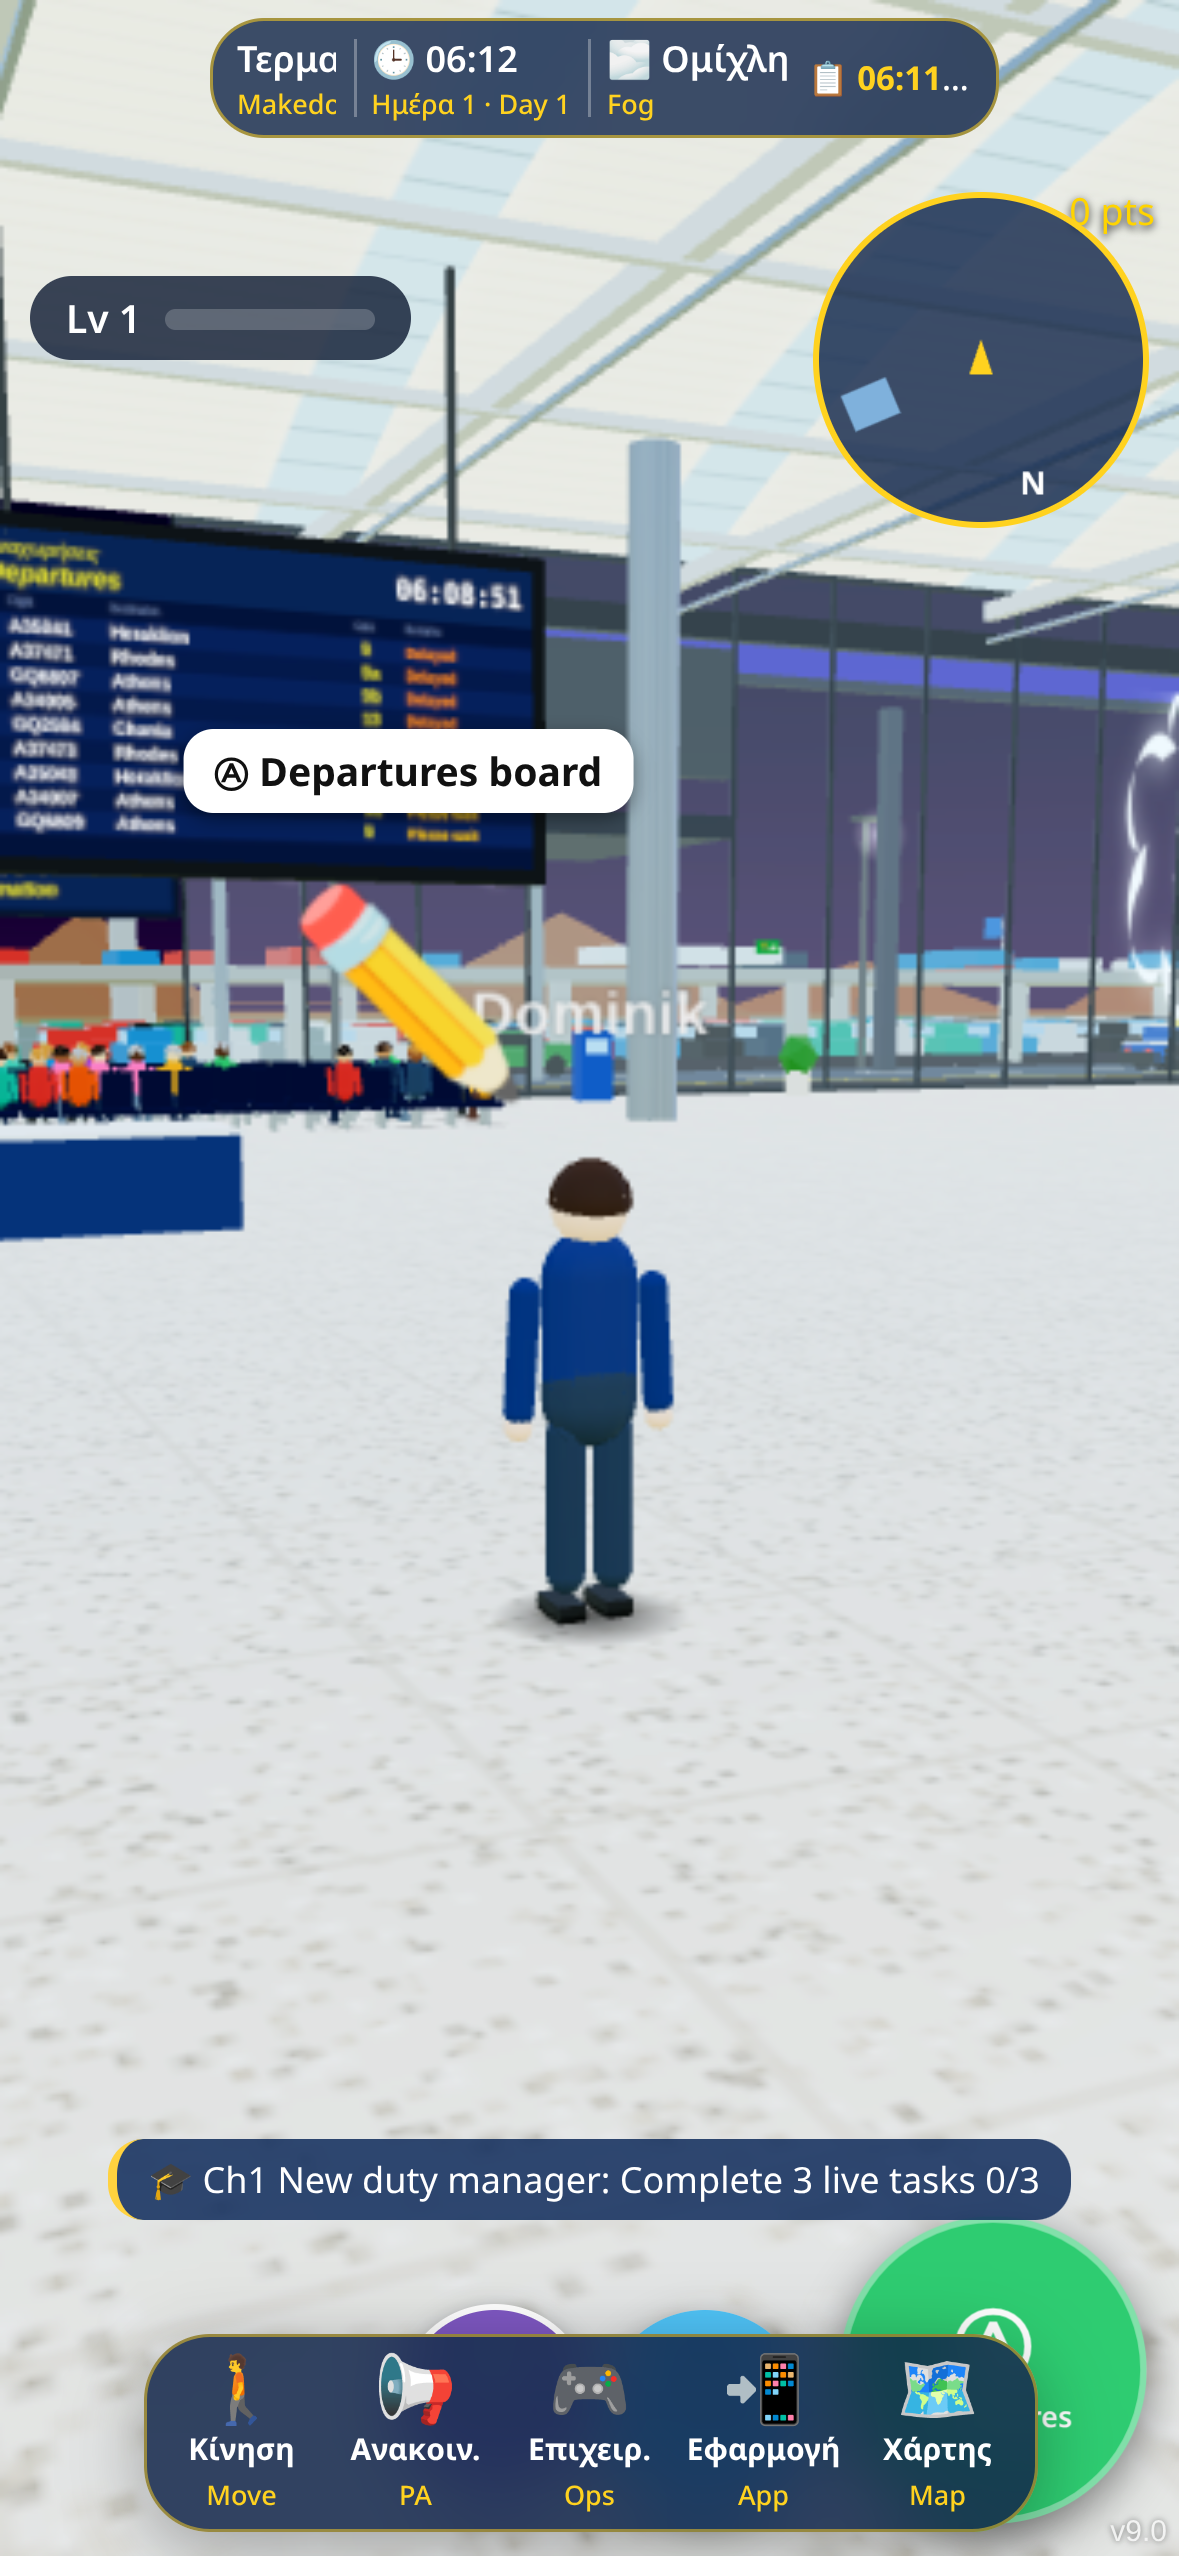
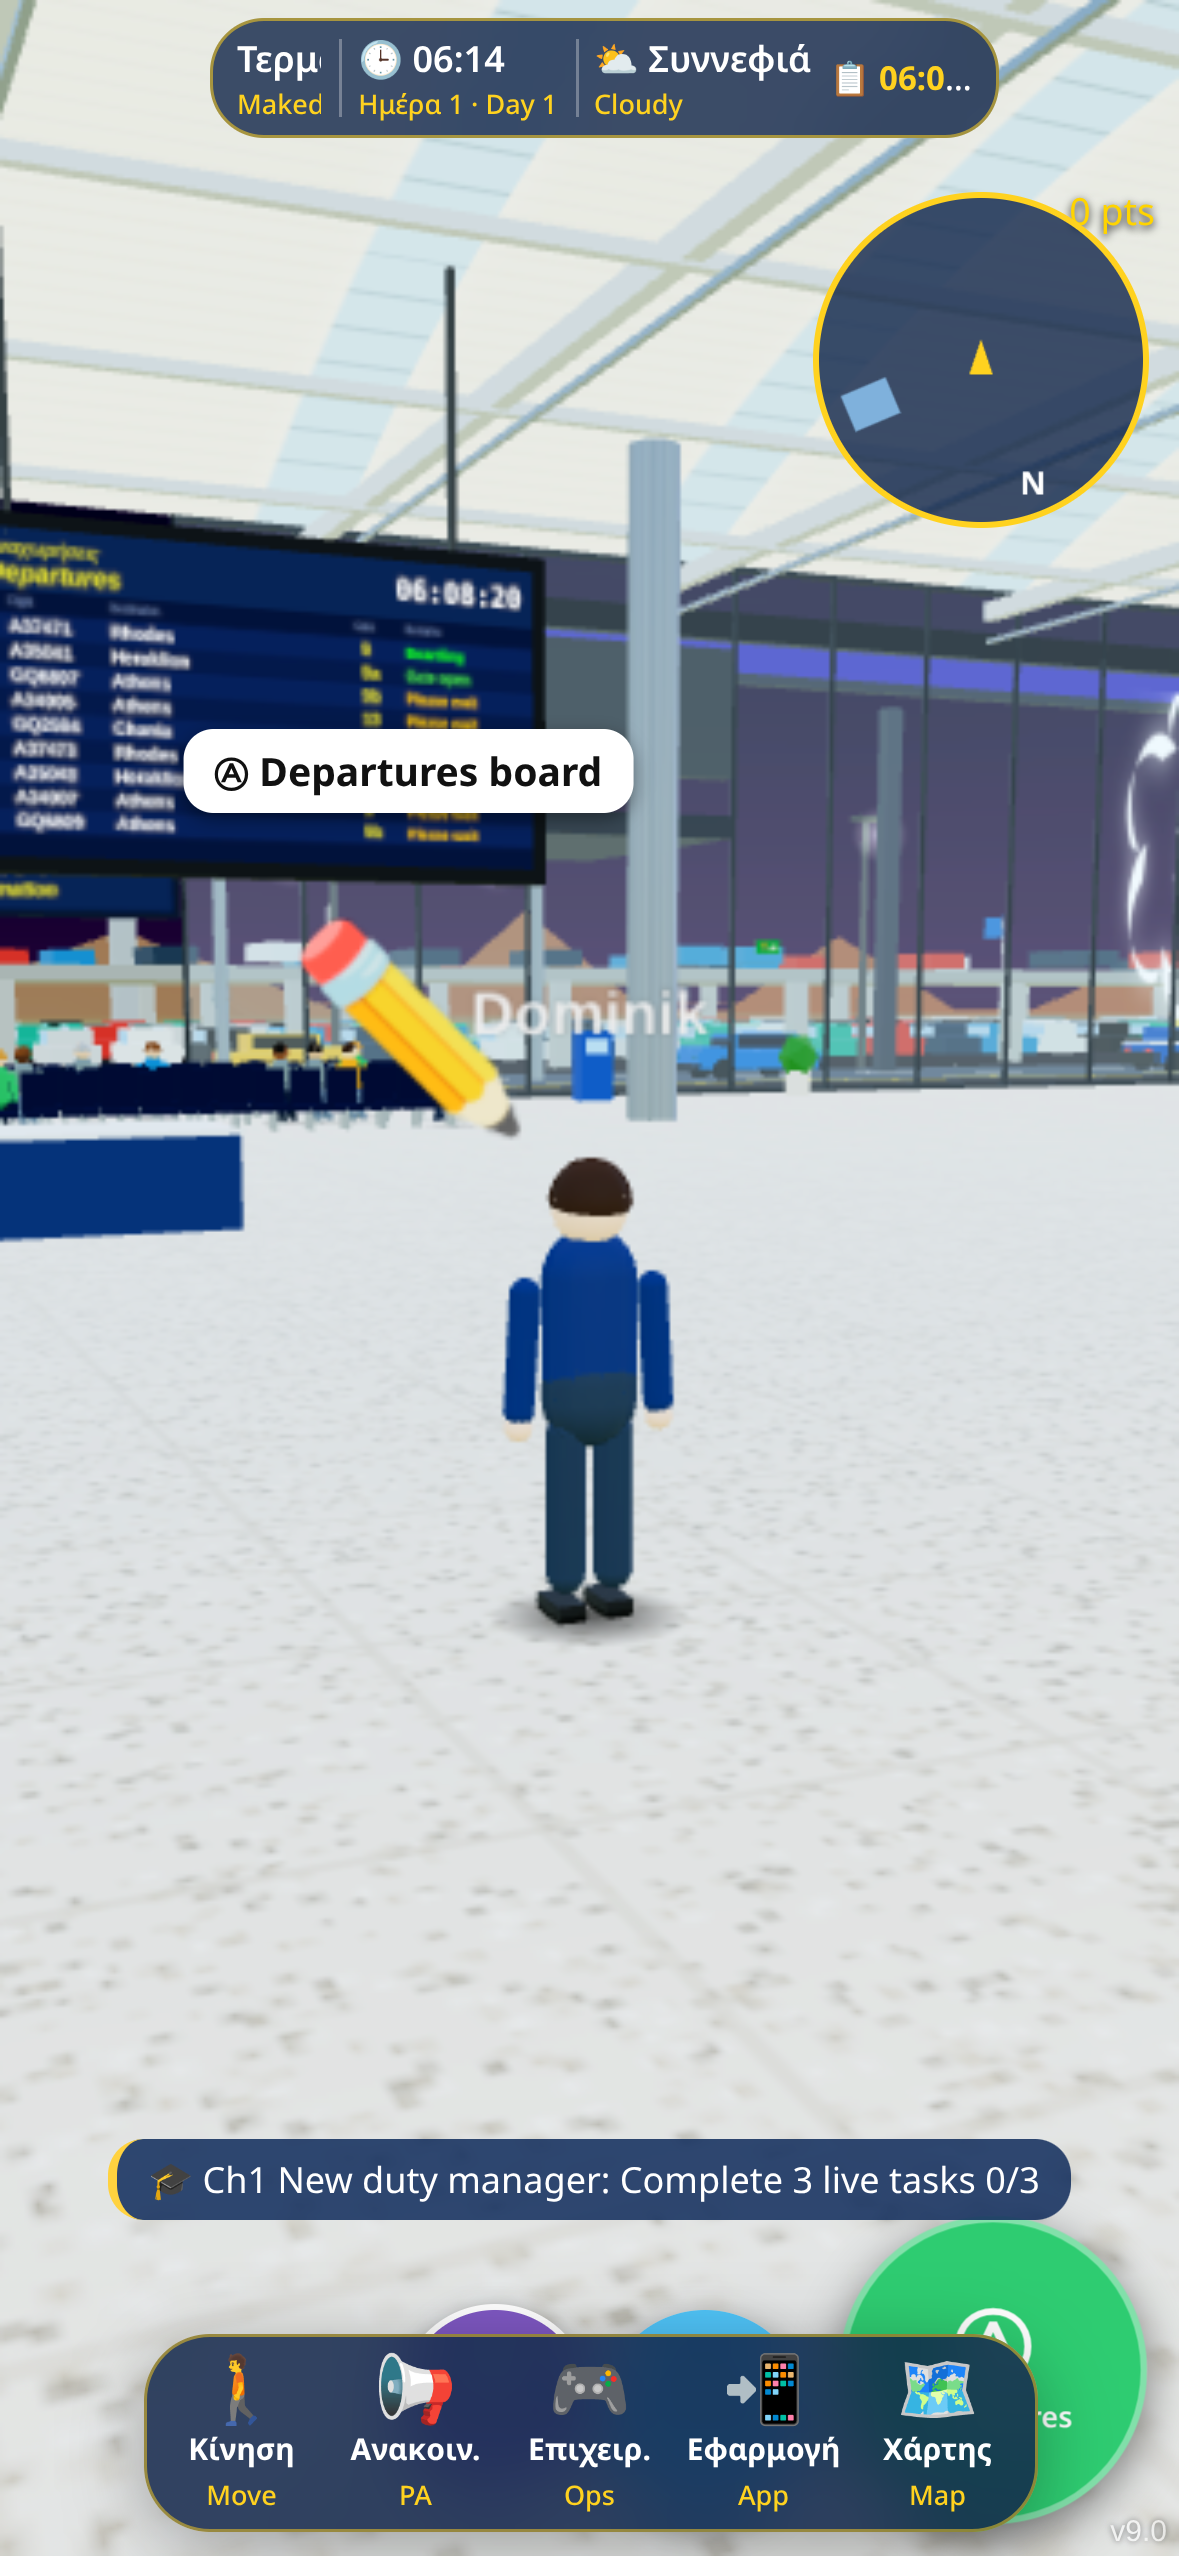
v9.0b2: Level 2 in all terminals, hotel interiors, SKG app tabs, door-based evacuation, 2D walkers

diff --git a/PROGRESS.md b/PROGRESS.md
@@ -186,3 +186,9 @@ Greek translates actual transcript (fuzzy script match ≥ threshold, protected 
   - All clear restores everything. Drills are scored.
   - 2D: an exit arrow banner, a "Guide passengers" action and the same panel.
 - UI: the old info card and task pill are folded into the status bar. 👤 moved to the App flyout, flyout buttons have Greek and English labels, weather is shown in Greek and English, the old mini-map is hidden in 3D, and PA subtitles show Greek above English.
+
+## v9.0 Part B2 – bigger terminals, hotel interiors, SKG app tabs (LIVE)
+- Every terminal is bigger: walkable Level 2 lounges (Σαλόνι, food hall, kids zone, books) above the airside plaza in T1–T5 and T1A. In 3D you reach them by escalator ramps or the ⬆ item; they have seating, crowds and plants. In 2D: areas t1l2–t5l2 and t8l2, with ⬆ doors from the airside areas. T7 was expanded in Part A.
+- Makedonia Palace hotel interior (3D, built on entry and freed on exit; enter at the hotel tower door): lobby and reception, sofas, 3 lifts (floors G–8), a corridor with 12 rooms per floor (bed, TV, window, doors), restaurant and bar. 2D: hot27, hot27c, hot27r. Booking, resting and dining all work.
+- SKG app tabs: 🚨 Alerts (live evacuation status, start a drill, latest PA in GR/EN), 🏨 Hotel (book, go to the hotel), 🗺 Terminal maps (per-terminal zones + go), 📡 PA control (type an announcement, then All/Only this terminal; drill; PA rooms; log).
+- Evacuation: crowds follow waypoints to the nearest doors. Landside goes out through the front doors to the forecourt; airside goes out to the apron between the piers. 2D shows small figures walking to the exit. The objective pill is folded into the status bar, and the dock hides while a modal or the app is open.
